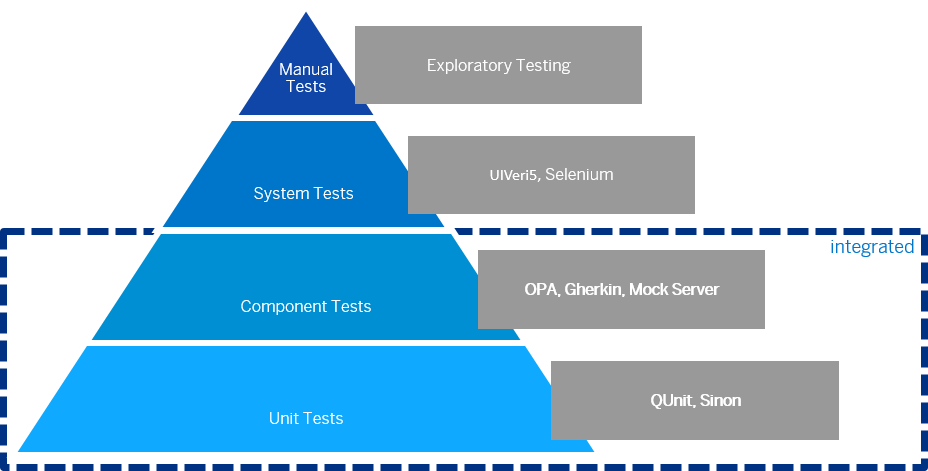
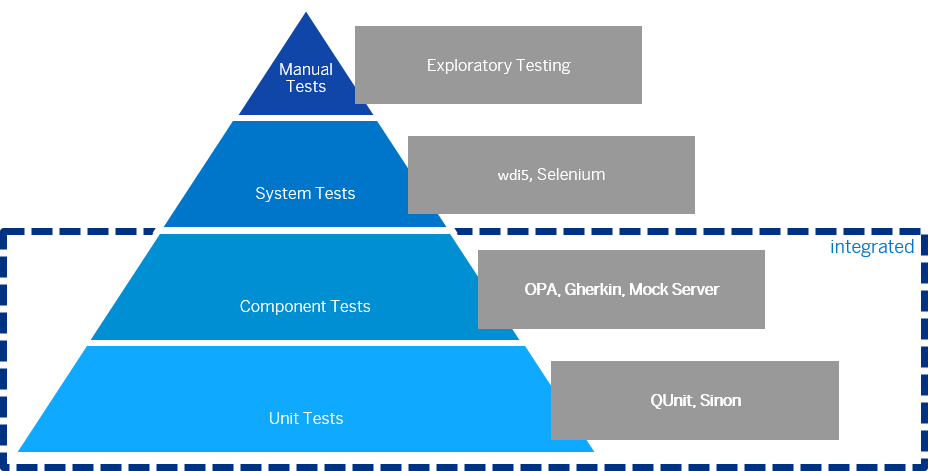
OpenUI5 Documentation Update 29.04.2022

diff --git a/docs/Test_Recorder_2535ef9.md b/docs/Test_Recorder_2535ef9.md
@@ -12,7 +12,7 @@ view on: [demo kit nightly build](https://openui5nightly.hana.ondemand.com/#/top
 
 The Test Recorder tool supports app developers who write integration and system tests.
 
-The Test Recorder is part of the OpenUI5 framework and is available in all browsers. As of version 1.74, you can use the tool in any OpenUI5 app to inspect the rendered user interface \(UI\), view the control properties, and gain hints on writing tests. The Test Recorder is aligned with the two official OpenUI5 testing tools – OPA5 and UIVeri5.
+The Test Recorder is part of the OpenUI5 framework and is available in all browsers. As of version 1.74, you can use the tool in any OpenUI5 app to inspect the rendered user interface \(UI\), view the control properties, and gain hints on writing tests. The Test Recorder is aligned with the official OpenUI5 testing tool – OPA5.
 
 ***
 
@@ -92,7 +92,7 @@ To perform an action from the app page, right-click on any control and select th
 
 The code snippets generated by the Test Recorder usually contain a function invocation that locates one control on the app page. The function receives one argument – a control locator. The control location is a JSON object containing a specific combination of conditions and matchers.
 
-The code snippet can be directly copied and pasted into your test code and is already aligned with the supported tools for testing – *OPA5* and *UIVeri5*. To choose the tool for which to generate a code snippet, select an option from the *Dialect* dropdown menu. The *raw selector* option gives you just the control locator with no function invocations.
+The code snippet can be directly copied and pasted into your test code and is already aligned with *OPA5*. To choose the tool for which to generate a code snippet, select an option from the *Dialect* dropdown menu. The *raw selector* option gives you just the control locator with no function invocations and it can be easily used in other frameworks, such as wdi5.
 
 > ### Tip:  
 > If you want to generate several code snippets at once, turn on the *Multiple* switch.
@@ -108,7 +108,7 @@ As of version 1.88, we introduced the option to generate code snippets with asse
 To generate a code snippet with an assertion, first select a control \(from the app or from the control tree\) and then select the *Assert value* icon located next to each property of the selected control.
 
 > ### Tip:  
-> Assertions are available for both OPA5 and UIVeri5 dialects, as well as in the multiple-snippet mode. You can edit the snippet directly in the recorder.
+> Assertions are available for both OPA5 and raw dialects, as well as in the multiple-snippet mode. You can edit the snippet directly in the recorder.
 
 **Related Information**  
 
@@ -119,5 +119,5 @@ To generate a code snippet with an assertion, first select a control \(from the 
 
 [API Reference: `sap.ui.test.Opa5`](https://openui5.hana.ondemand.com/#/api/sap.ui.test.Opa5)
 
-[GitHub: `ui5-uiveri5`](https://github.com/SAP/ui5-uiveri5)
+[GitHub: `wdi5`](https://github.com/js-soft/wdi5)
 

diff --git a/docs/Test_Recorder_dac59fa.md b/docs/Test_Recorder_dac59fa.md
@@ -12,7 +12,7 @@ view on: [demo kit nightly build](https://openui5nightly.hana.ondemand.com/#/top
 
 The Test Recorder tool supports app developers who write integration and system tests.
 
-The Test Recorder is part of the OpenUI5 framework and is available in all browsers. As of version 1.74, you can use the tool in any OpenUI5 app to inspect the rendered user interface \(UI\), view the control properties, and gain hints on writing tests. The Test Recorder is aligned with the two official OpenUI5 testing tools – OPA5 and UIVeri5.
+The Test Recorder is part of the OpenUI5 framework and is available in all browsers. As of version 1.74, you can use the tool in any OpenUI5 app to inspect the rendered user interface \(UI\), view the control properties, and gain hints on writing tests. The Test Recorder is aligned with the official OpenUI5 testing tool – OPA5.
 
 ***
 
@@ -92,7 +92,7 @@ To perform an action from the app page, right-click on any control and select th
 
 The code snippets generated by the Test Recorder usually contain a function invocation that locates one control on the app page. The function receives one argument – a control locator. The control location is a JSON object containing a specific combination of conditions and matchers.
 
-The code snippet can be directly copied and pasted into your test code and is already aligned with the supported tools for testing – *OPA5* and *UIVeri5*. To choose the tool for which to generate a code snippet, select an option from the *Dialect* dropdown menu. The *raw selector* option gives you just the control locator with no function invocations.
+The code snippet can be directly copied and pasted into your test code and is already aligned with *OPA5*. To choose the tool for which to generate a code snippet, select an option from the *Dialect* dropdown menu. The *raw selector* option gives you just the control locator with no function invocations and it can be easily used in other frameworks, such as wdi5.
 
 > ### Tip:  
 > If you want to generate several code snippets at once, turn on the *Multiple* switch.
@@ -108,7 +108,7 @@ As of version 1.88, we introduced the option to generate code snippets with asse
 To generate a code snippet with an assertion, first select a control \(from the app or from the control tree\) and then select the *Assert value* icon located next to each property of the selected control.
 
 > ### Tip:  
-> Assertions are available for both OPA5 and UIVeri5 dialects, as well as in the multiple-snippet mode. You can edit the snippet directly in the recorder.
+> Assertions are available for both OPA5 and raw dialects, as well as in the multiple-snippet mode. You can edit the snippet directly in the recorder.
 
 **Related Information**  
 
@@ -119,5 +119,5 @@ To generate a code snippet with an assertion, first select a control \(from the 
 
 [API Reference: `sap.ui.test.Opa5`](https://openui5.hana.ondemand.com/#/api/sap.ui.test.Opa5)
 
-[GitHub: `ui5-uiveri5`](https://github.com/SAP/ui5-uiveri5)
+[GitHub: `wdi5`](https://github.com/js-soft/wdi5)
 

diff --git a/docs/Testing_7cdee40.md b/docs/Testing_7cdee40.md
@@ -36,11 +36,9 @@ We recommend OPA5 for integration tests. OPA5 is part of OpenUI5. It is built on
 
 ***
 
-#### UIVeri5
+#### wdi5
 
-We recommend UIVeri5 for system and end-to-end tests. UIVeri5 is an end-to-end testing framework inspired by Protractor.
-
-UIVeri5 is built exclusively for OpenUI5 apps. It uses WebDriverJS to drive a real browser and interact with your app the same was a real user would.
+WebdriverIO \(WDIO\) is a hugely popular end-to-end testing framework. It can work with any web app but lacks the awareness of the web framework that the application uses. wdi5, which is a WDIO plugin, bridges this gap and provides two key benefits, namely control locators and synchronization with the web framework. wdi5 uses a real browser and interacts with your app the same way a real user would.
 
 -   **[Unit Testing with QUnit](Unit_Testing_with_QUnit_09d145c.md "QUnit is a powerful, easy-to-use JavaScript unit testing framework. It is used by the
 		jQuery, jQuery UI and jQuery Mobile projects and is capable of testing any generic
@@ -78,7 +76,7 @@ The Test Recorder tool supports app developers who write integration and system 
 
 [Tutorial: Mock Server](OData_V2_Mock_Server_3a9728e.md "In this tutorial, we will explore some advanced features of the OData V2 mock server.")
 
-[UIVeri5 Home Page](https://www.npmjs.com/package/@ui5/uiveri5)
+[wdi5 Home Page](https://github.com/js-soft/wdi5)
 
 [Selenium Home Page](http://docs.seleniumhq.org/)
 

diff --git a/docs/Retrieving_Controls_21aeff6.md b/docs/Retrieving_Controls_21aeff6.md
@@ -427,7 +427,7 @@ iExpandRecursively : function() {
 
 #### Overview
 
-As of version 1.72, OPA5 supports the declarative matcher syntax that allows you to declare built-in matchers in a literal object. The syntax is inspired by control locators in UIVeri5 and promotes reuse between the two testing tools. A matcher declaration is a JSON object. The OPA5 `waitFor` statement is simplified by using a single JSON object, instead of the more verbose matcher instances. Only built-in matchers are allowed. Inline matcher functions and custom matcher instances are only allowed in the matchers `waitFor` parameter:
+As of version 1.72, OPA5 supports the declarative matcher syntax that allows you to declare built-in matchers in a literal object. A matcher declaration is a JSON object. The OPA5 `waitFor` statement is simplified by using a single JSON object, instead of the more verbose matcher instances. Only built-in matchers are allowed. Inline matcher functions and custom matcher instances are only allowed in the matchers `waitFor` parameter:
 
 ```js
 return this.waitFor({
@@ -472,8 +472,6 @@ There are two places you can add a matcher declaration in a `waitFor` object:
 
 
 If there are matchers declared in both places, they’re combined.
-
-For more information, see [https://github.com/SAP/ui5-uiveri5](https://github.com/SAP/ui5-uiveri5).
 
 ***
 
